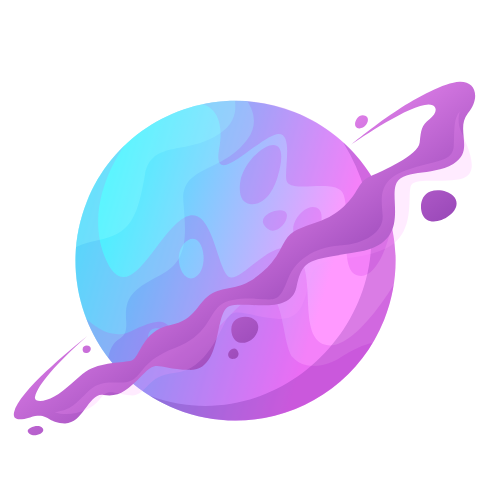
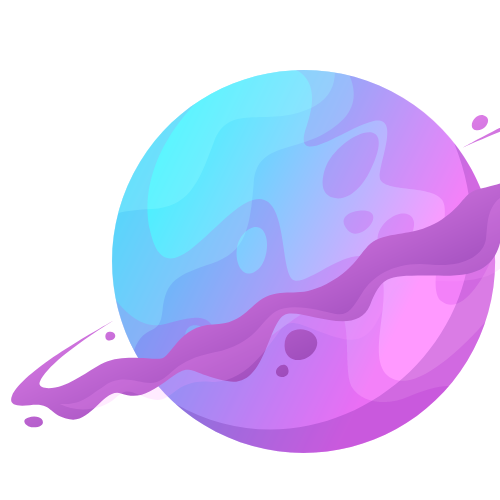
add new styles for responsive

diff --git a/pages/space__coders/space_coders.html b/pages/space__coders/space_coders.html
@@ -12,7 +12,7 @@
     <header class="t__uva t__rainbow">
       <p><a href="/">Space Coders by Malva</a></p>
     </header>
-    <div class="marvel">
+    <div class="marvel" style="overflow:hidden;">
       <section class="marvel__section">
         <img src="./space-coders/1.png" alt="" class="planet__1">
         <h1>Space Coders</h1>
@@ -26,10 +26,10 @@
           maiores quasi rem ea asperiores quod fugit optio. Eveniet molestiae
           placeat non sit, dicta quis nihil ratione!
         </p>
-        <img src="./space-coders/4.png" alt="">
+        <img src="./space-coders/4.png" alt="" class="planet__2">
       </section>
 
-      <h3>Cursos</h3>
+      <h3 style="margin-top: -400px;">Cursos</h3>
       <p>
         Lorem ipsum dolor, sit amet consectetur adipisicing elit. Officiis,
         repellendus. Id pariatur sint maiores quasi rem ea asperiores quod fugit
@@ -77,6 +77,6 @@
         optio. Eveniet molestiae placeat non sit, dicta quis nihil ratione!
       </p>
     </div>
-    <footer class="t__rainbow">Made with 🌮 and Good Vibes 🍟 by <a href="../../index.html">@Malva</a></footer>
+    <footer class="t__rainbow">Made with Good Vibes 🍟 by <a href="../../index.html">@Malva</a></footer>
   </body>
 </html>

diff --git a/pages/space__coders/styles__coders.css b/pages/space__coders/styles__coders.css
@@ -33,11 +33,31 @@ body header {
 .planet__logo {
   width: 327px;
 }
+@media (max-width: 599px) {
+  .planet__logo {
+    width: 100%;
+  }
+}
 .planet__1 {
   position: absolute;
-  top: 20px;
-  right: 47px;
-  width: 327px;
+  opacity: 0.5;
+  top: 0;
+  right: 0;
+  width: 328px;
+  z-index: -1;
+}
+.planet__2 {
+  position: relative;
+  top: -102px;
+  opacity: 0.6;
+  right: 194px;
+  width: 471px;
+  z-index: -1;
+}
+@media (min-width: 1200px) {
+  .planet__2 {
+    right: 336px;
+  }
 }
 
 .wrap {
@@ -53,7 +73,7 @@ body header {
   width: 100%;
   height: 100%;
   opacity: 0.1;
-  background-image: url("https://images.hdqwalls.com/wallpapers/astronaut-black-hole-galaxy-space-4k-a0.jpg");
+  background-image: url("./space-coders/wraper_bg.jpeg");
   background-repeat: no-repeat;
   background-position: 50% 0;
   background-size: cover;

diff --git a/pages/space__coders/styles__coders.scss b/pages/space__coders/styles__coders.scss
@@ -46,12 +46,28 @@ body {
 .planet{
   &__logo{
     width: 327px;
+    @include xm-device {
+      width: 100%;
+    }
   }
   &__1{
     position: absolute;
-    top: 20px;
-    right: 47px;
-    width: 327px;
+    opacity: 0.5;
+    top: 0;
+    right: 0;
+    width: 328px;
+    z-index: -1;
+  }
+  &__2{
+    position: relative;
+    top: -102px;
+    opacity: 0.6;
+    right: 194px;
+    width: 471px;
+    z-index: -1;
+    @include desktop {
+      right: 336px;
+    }
   }
 }
 .wrap {
@@ -67,7 +83,7 @@ body {
   width: 100%;
   height: 100%;
   opacity: 0.1;
-  background-image: url('https://images.hdqwalls.com/wallpapers/astronaut-black-hole-galaxy-space-4k-a0.jpg');
+  background-image: url('./space-coders/wraper_bg.jpeg');
   background-repeat: no-repeat;
   background-position: 50% 0;
   background-size: cover;
